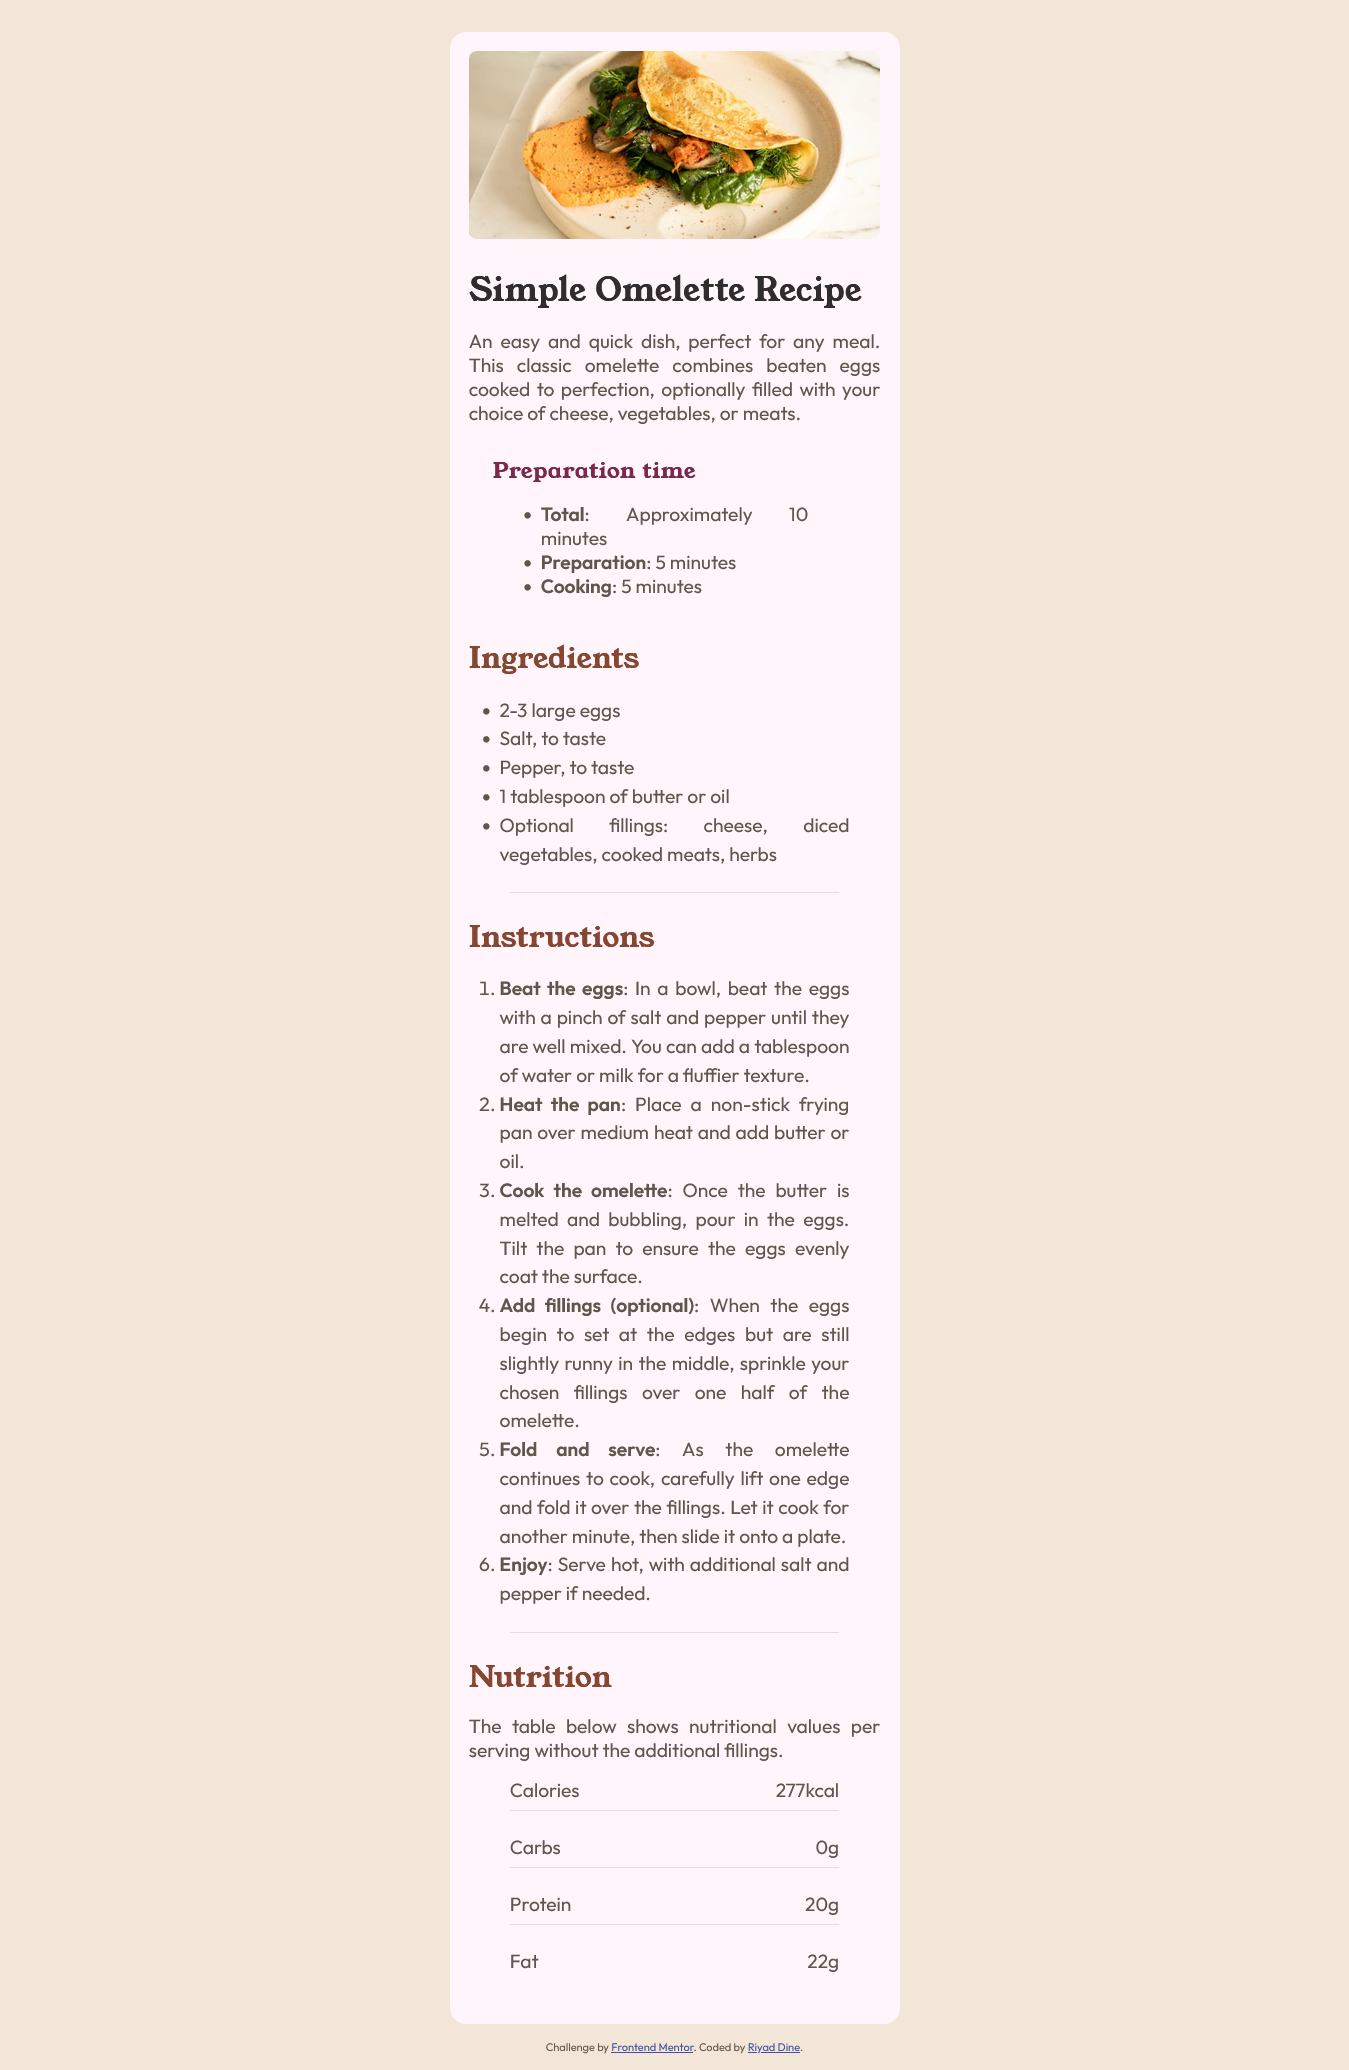
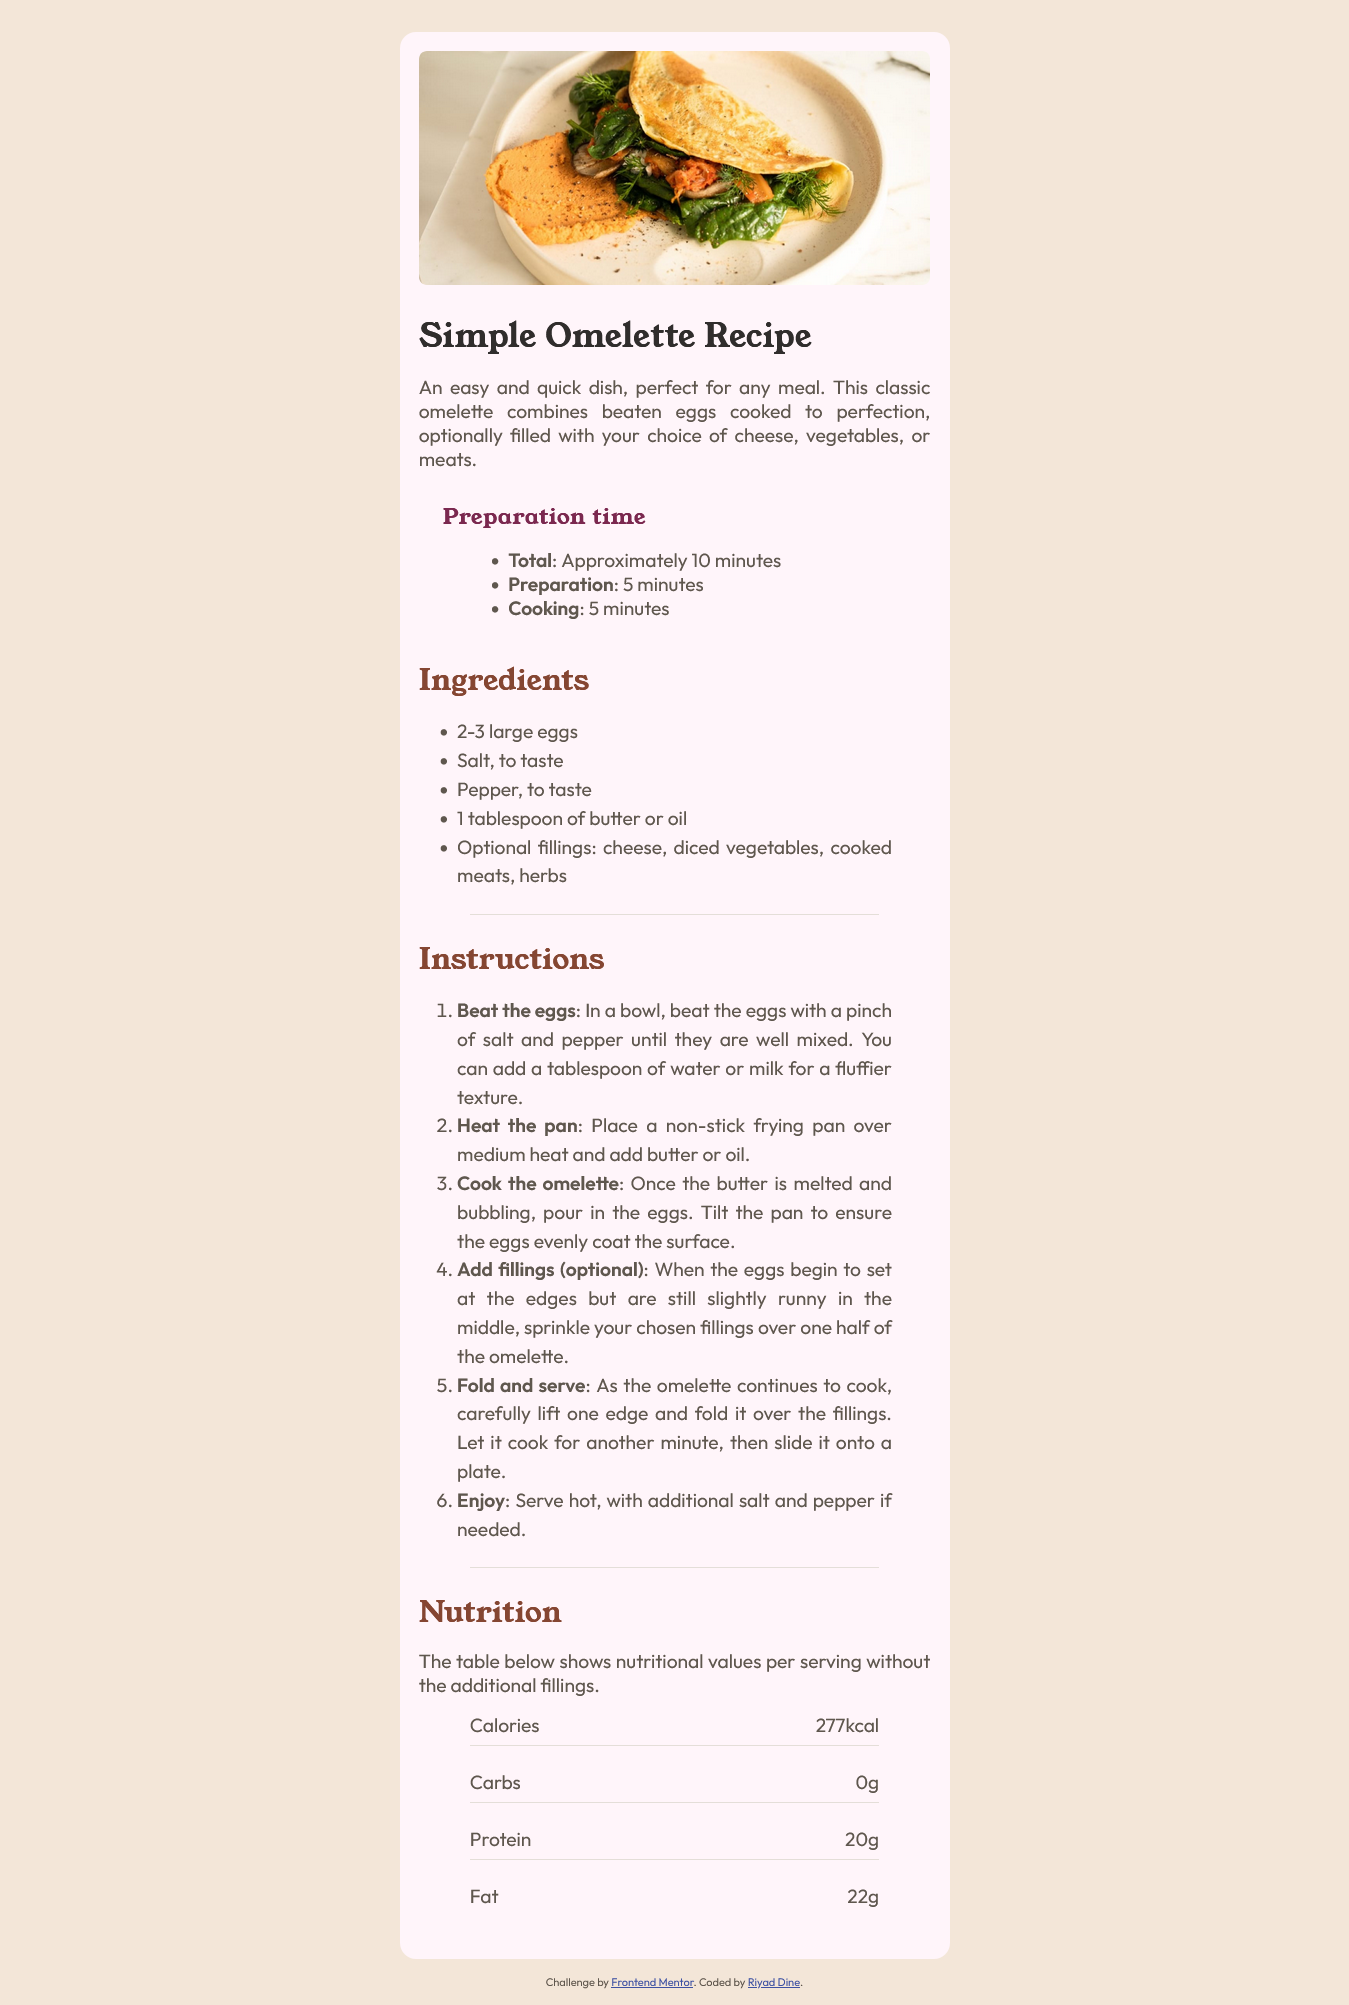
update css

Changed region(s): [[0.2802, 0.0, 0.7161, 0.9895], [0.467, 0.9895, 0.5293, 1.0], [0.5604, 0.9895, 0.5915, 1.0]]

diff --git a/styles.css b/styles.css
@@ -121,7 +121,7 @@ section:last-child {
     font-size: 1.2rem;
   }
   .container {
-    max-width: 450px;
+    max-width: 550px;
     border-radius: 1rem;
     margin: 2rem auto 1rem;
     padding: 1.2rem;
